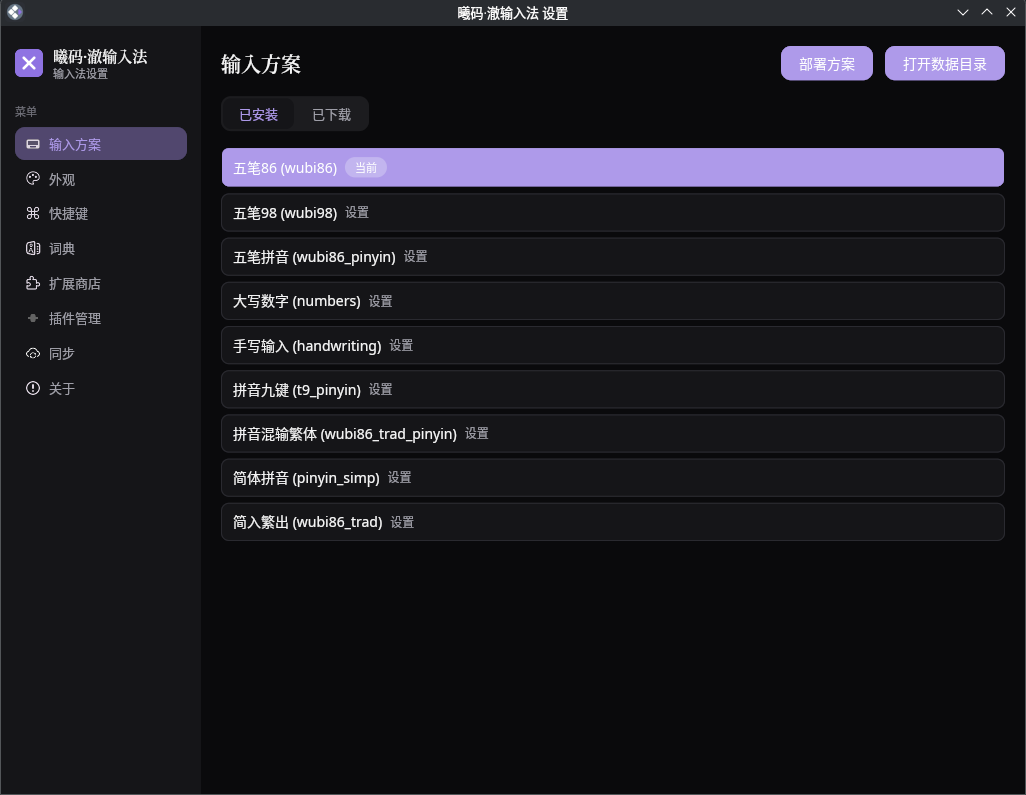
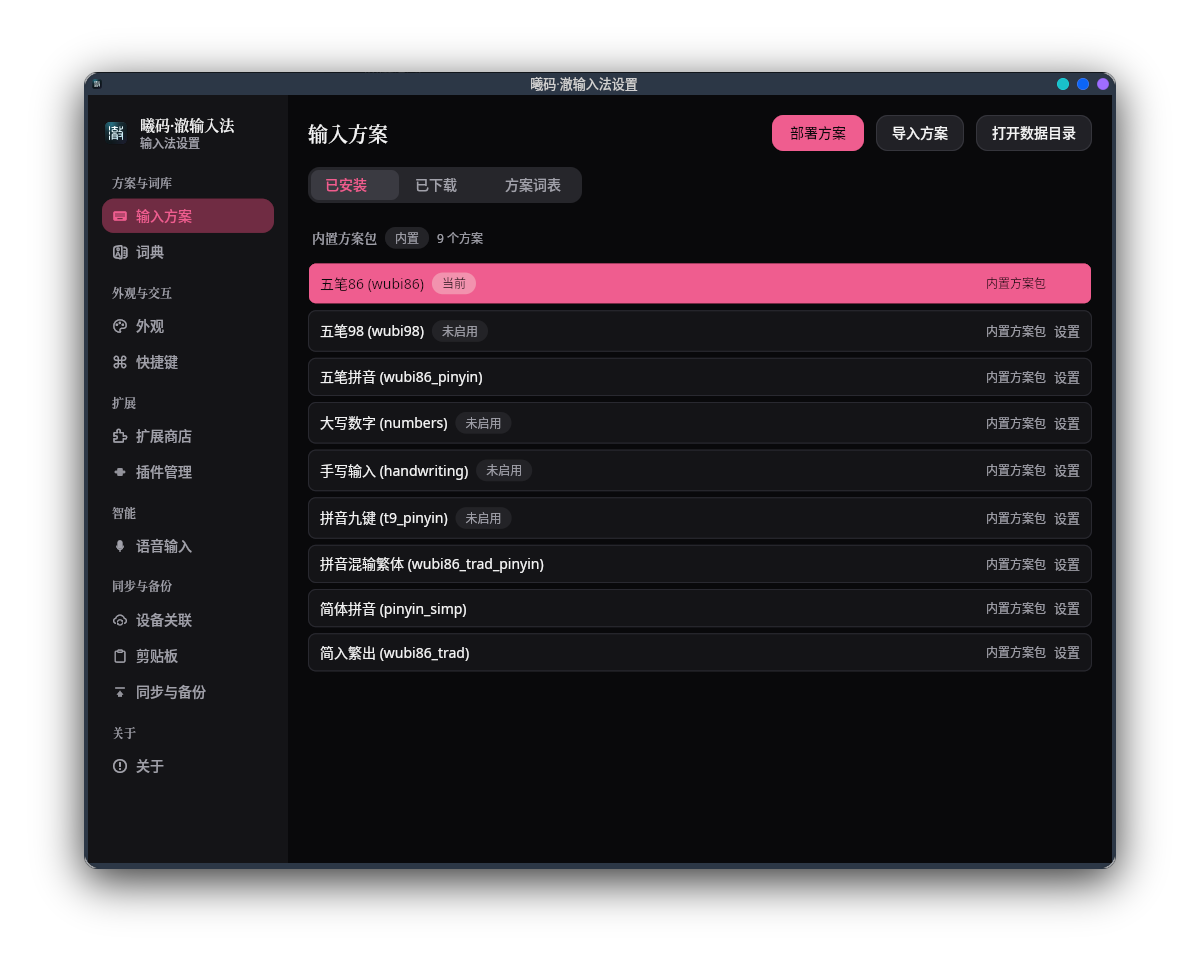
docs: 更新效果预览图，品牌素材改由本仓注入
- 候选窗预览改用新候选栏截图，去掉边框外底噪，放进品牌色卡片
- 设置界面截图重拍（新 logo + 当前主题），圆角/投影对齐
- xime-setup 启动时注入窗口图标与侧栏 logo（资源放本仓 resources/）

diff --git a/crates/xime-setup/src/main.rs b/crates/xime-setup/src/main.rs
@@ -305,6 +305,13 @@ fn main() -> iced::Result {
         return Ok(());
     }
 
+    // 品牌素材由本仓库提供：窗口图标与侧栏/关于页 logo 都在这里注入，
+    // xime-setup-lib 自身不带任何品牌图（它不知道产品长什么样）。
+    xime_setup_lib::set_brand_assets(xime_setup_lib::BrandAssets {
+        app_icon_png: include_bytes!("../../../resources/icons/512x512/apps/xime.png"),
+        logo_svg: include_bytes!("../../../resources/icons/xime-logo.svg"),
+    });
+
     set_notify_deploy(|| {
         if let Ok(conn) = zbus::blocking::Connection::session() {
             let _ = conn.call_method(

diff --git a/README.md b/README.md
@@ -23,13 +23,17 @@
 
 ## 效果预览
 
-候选窗：
+候选窗（五笔码表提示 + 主题高亮）：
 
-![候选窗](docs/srf.png)
+<p align="center">
+  <img src="docs/candidate.png" width="760" alt="候选窗">
+</p>
 
 设置界面：
 
-![设置界面](docs/setup.png)
+<p align="center">
+  <img src="docs/setup.png" width="860" alt="设置界面">
+</p>
 
 ## 架构
 
